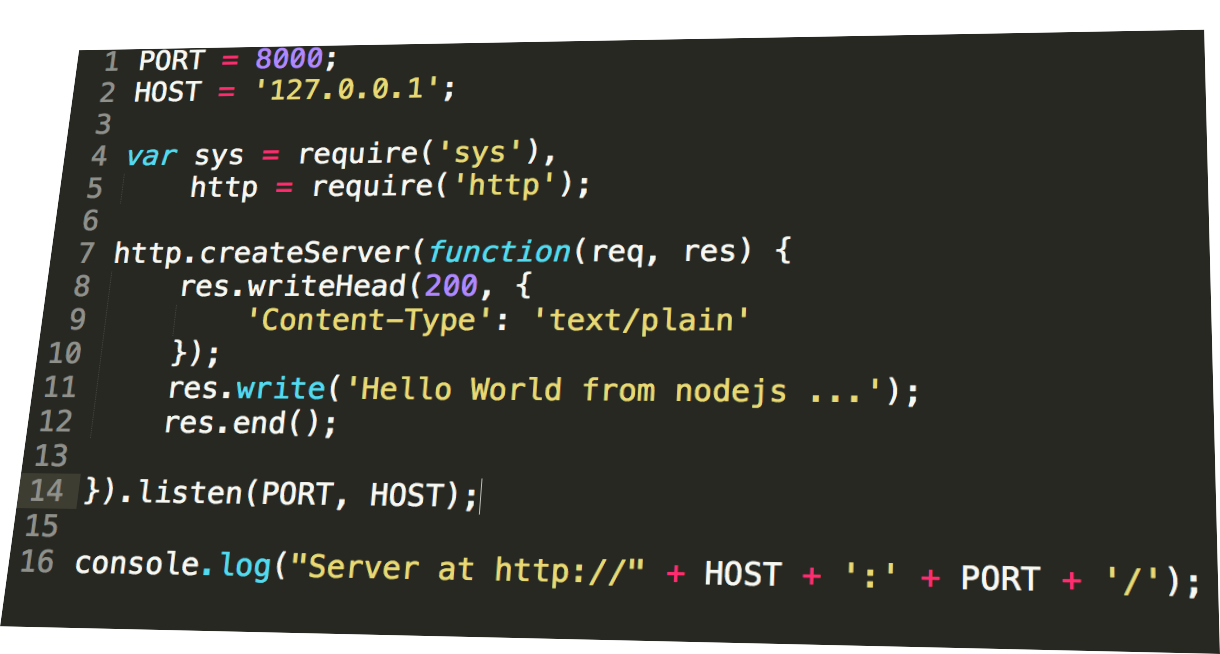
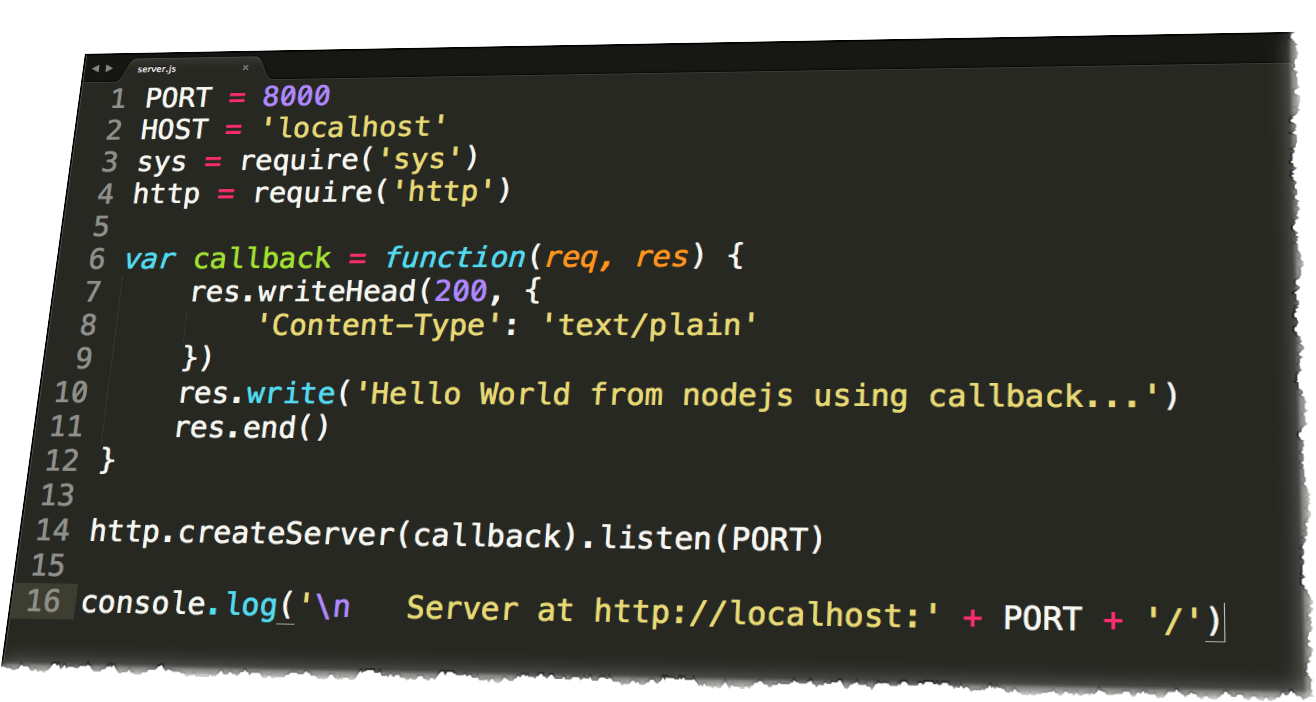
nodejs step by step

diff --git a/README.md b/README.md
@@ -4,7 +4,7 @@ node-step-by-step
 building nodejs step by step (building chat server and later client )
 
 
-## Step02 
+## Step03 
 
 building the server side.
 using callback-function
